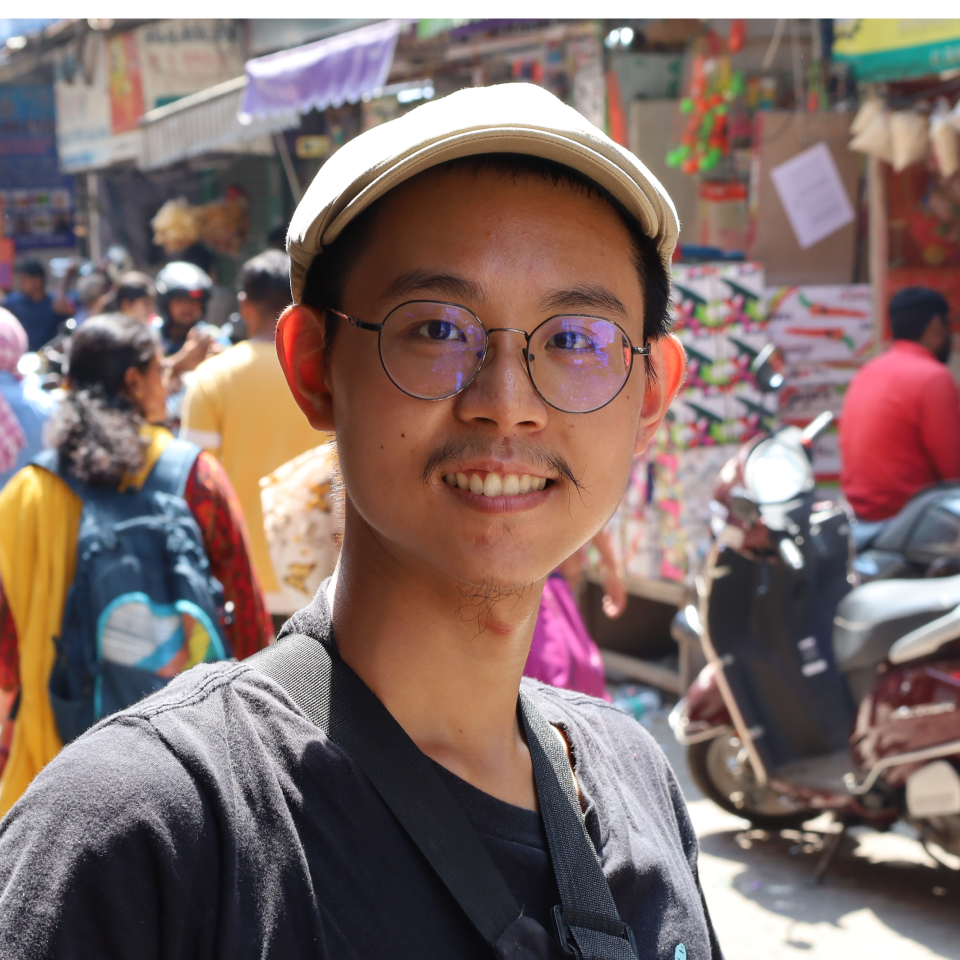
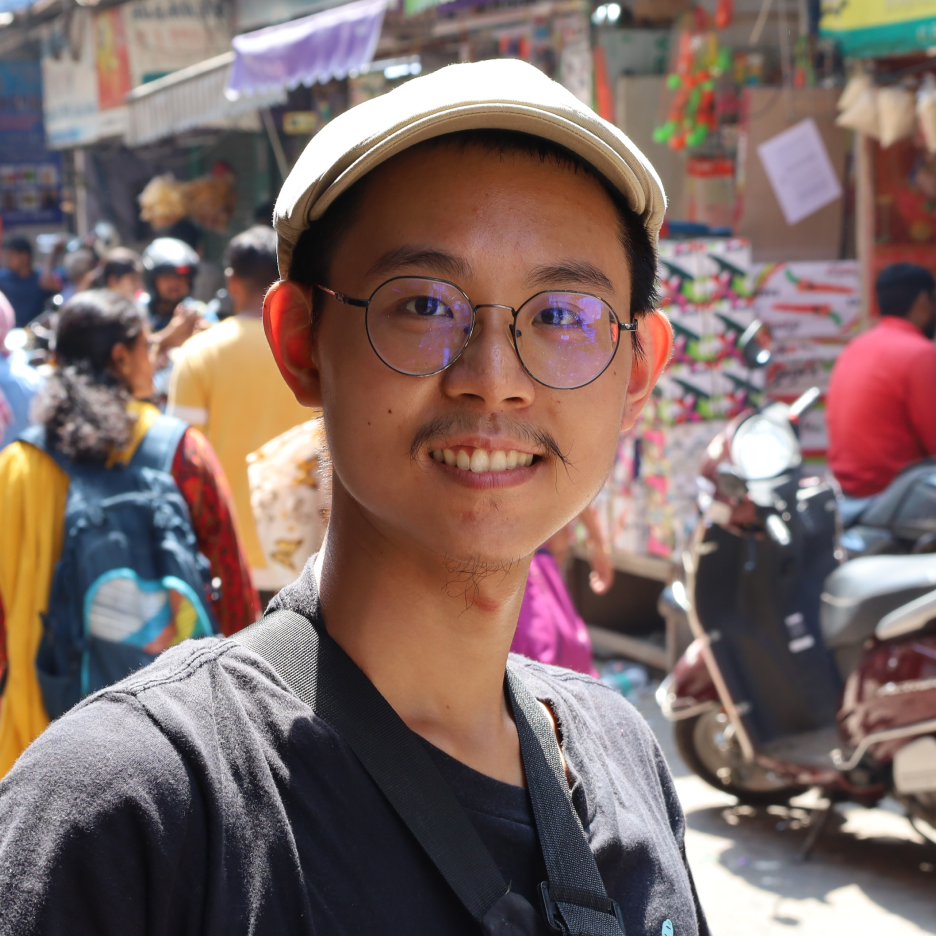
chore: adjust about profile image

diff --git a/layouts/partials/sections/about.html b/layouts/partials/sections/about.html
@@ -6,7 +6,7 @@
             <h2 class="bg-transparent">{{ .Site.Params.about.title }}</h2>
             <div class="col-sm-12 col-md-8 col-lg-4 mb-5 mb-sm-0 mb-md-5 mb-lg-0 d-none d-sm-none d-md-block">
                 <div class="image d-flex">
-                    <img src="{{ .Site.Params.about.image }}" class="img-thumbnail object-fit-cover rounded-circle" alt="">
+                    <img src="{{ .Site.Params.about.image }}" class="img-thumbnail rounded-circle" alt="">
                 </div>
             </div>
             {{ end }}

diff --git a/static/css/index.css b/static/css/index.css
@@ -322,6 +322,12 @@ object-fit: cover;
     width: 100%;
 }
 
+#about .img-thumbnail{
+    /* ensure it is a circle*/
+    aspect-ratio: 1 / 1;
+    object-fit: cover;
+}
+
 /* experience */
 
 #experience h3 {
